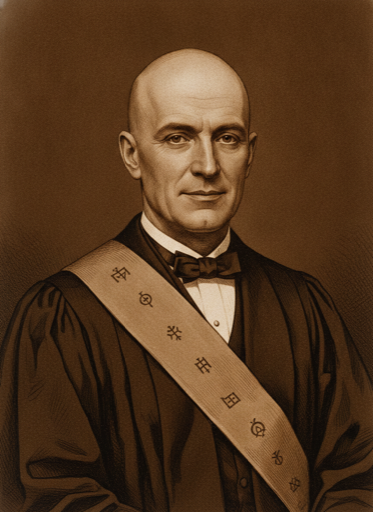
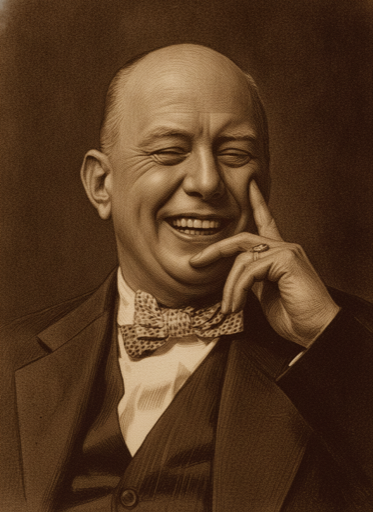
Anchor base portraits to real archival photos, fix Crowley's likeness (#541)
Base portraits were generated from text-only prompts with no photographic
anchor, so likeness came from the model's training association rather than
a verified source. Confirmed for Crowley: his generated base read too
young/slim, over-romanticizing him vs. his real heavier, jowlier "Great
Beast" prime (1920s-30s Abbey of Thelema era).

Adds a `likeness-refs/` convention (a plain, non-staged archival photo per
member) and `buildLikenessAnchoredBasePrompt` to anchor base-portrait
generation via `referenceImages`, the same mechanism reaction portraits
already use — wired into `POST /api/members` with zero behavior change for
members without a sourced reference. Regenerated and promoted Crowley's
base and reaction set against a circa-1925 Wikimedia Commons photo.

Roster-wide audit for the same gap deliberately deferred to #546.

Closes #541

diff --git a/scripts/fix-541-crowley-likeness.js b/scripts/fix-541-crowley-likeness.js
@@ -1,0 +1,104 @@
+'use strict';
+
+// #541 — Crowley's base portrait was generated from a text prompt alone,
+// with no archival photo attached as a `referenceImages` anchor, so the
+// model filled in likeness from its own training association for "Aleister
+// Crowley" rather than a verified source. Rachel's read on the result: too
+// young and slim in the face, over-romanticizing the popular occult-glamour
+// image of him rather than the heavier, jowlier "Great Beast" prime
+// (1920s-30s Abbey of Thelema era) his actual surviving photographs show.
+//
+// This regenerates his base portrait anchored to a real reference photo —
+// public/portraits/likeness-refs/crowley.jpg (circa 1925, plain studio
+// photograph, Wikimedia Commons, public domain; see that directory's
+// metadata.json for full provenance) — via buildLikenessAnchoredBasePrompt
+// (src/portrait-generation.js), the same referenceImages mechanism the
+// reaction portraits already use, just anchoring physical accuracy instead
+// of overriding expression.
+//
+// Once the base is regenerated, his three reaction portraits are also
+// regenerated anchored to the NEW base candidate (not yet promoted) so
+// likeness accuracy and cross-image consistency both hold at once, same
+// reasoning as #531's own fix. Reuses buildReactionPrompt from
+// src/portrait-generation.js unchanged.
+//
+// Storage/naming: all four candidates land at
+// public/portraits/candidates/crowley*.png, same convention as every prior
+// batch. Per STYLE_GUIDE.md's human-validation gate, this script does NOT
+// promote — it only writes candidates for review. Run
+// scripts/promote-portrait.js on whichever candidates are approved.
+//
+// Usage: node scripts/fix-541-crowley-likeness.js
+
+require('dotenv').config();
+const fs = require('fs');
+const path = require('path');
+const { generatePortraitImage, buildLikenessAnchoredBasePrompt, buildReactionPrompt, REACTION_TYPES } = require('../src/portrait-generation');
+
+const ROOT = path.join(__dirname, '..');
+const PORTRAITS_DIR = path.join(ROOT, 'public', 'portraits');
+const CANDIDATES_DIR = path.join(PORTRAITS_DIR, 'candidates');
+const LIKENESS_REF_PATH = path.join(PORTRAITS_DIR, 'likeness-refs', 'crowley.jpg');
+
+// Subject/composition clause, adapted from the one fix-531-reaction-drift.js
+// used for Crowley's reactions -- dropped the old "aim for a recognizable
+// likeness consistent with surviving photographs" line, since a real
+// reference photo now does that job directly, and added the concrete
+// physical detail Rachel's critique named so the model doesn't average it
+// away even with the reference attached.
+const SUBJECT =
+  "Warm, etching-adjacent portrait of Aleister Crowley, English ceremonial magician, in his heavier, more physically imposing prime (1920s-30s, the Abbey of Thelema era) — head-and-shoulders, shaved head, formal dress or ceremonial magician's robe. A fuller, jowlier face and heavier build than a young man's, matching the reference photo's actual physical proportions.";
+
+const COMPOSITION_SUFFIX =
+  'Head-and-shoulders, period-appropriate dress, plain dark unornamented background — no scene elements, no furniture, no bookshelves, no architectural detail. Contemplative, neutral expression. Visible linework and texture (engraving/ink-wash register), not photorealistic or cartoon/flat-vector. Limited warm sepia/candlelit palette. Portrait orientation (taller than wide).';
+
+function buildBasePrompt() {
+  return buildLikenessAnchoredBasePrompt(`${SUBJECT} ${COMPOSITION_SUFFIX}`);
+}
+
+async function main() {
+  const apiKey = process.env.GEMINI_API_KEY;
+  if (!apiKey) {
+    console.error('GEMINI_API_KEY not set — cannot generate real portrait candidates.');
+    process.exit(1);
+  }
+  if (!fs.existsSync(LIKENESS_REF_PATH)) {
+    console.error(`No likeness reference found at ${path.relative(ROOT, LIKENESS_REF_PATH)}`);
+    process.exit(1);
+  }
+
+  fs.mkdirSync(CANDIDATES_DIR, { recursive: true });
+
+  const referenceImages = [{ mimeType: 'image/jpeg', data: fs.readFileSync(LIKENESS_REF_PATH) }];
+
+  console.log('Generating likeness-anchored base portrait...');
+  const baseBuffer = await generatePortraitImage({ apiKey, prompt: buildBasePrompt(), referenceImages });
+  fs.writeFileSync(path.join(CANDIDATES_DIR, 'crowley.png'), baseBuffer);
+  console.log(`  done (${baseBuffer.length} bytes) -> public/portraits/candidates/crowley.png`);
+
+  const baseReferenceImages = [{ mimeType: 'image/png', data: baseBuffer }];
+  for (const reaction of REACTION_TYPES) {
+    const id = `crowley-${reaction}`;
+    process.stdout.write(`Generating ${id}... `);
+    const buffer = await generatePortraitImage({
+      apiKey,
+      prompt: buildReactionPrompt(reaction, 'crowley'),
+      referenceImages: baseReferenceImages,
+    });
+    fs.writeFileSync(path.join(CANDIDATES_DIR, `${id}.png`), buffer);
+    console.log(`done (${buffer.length} bytes) -> public/portraits/candidates/${id}.png`);
+  }
+
+  console.log(
+    '\nNext: review each candidate in public/portraits/candidates/ against the reference photo and STYLE_GUIDE.md, then promote with:\n' +
+      '  node scripts/promote-portrait.js crowley --force\n' +
+      '  node scripts/promote-portrait.js crowley-happy --force\n' +
+      '  node scripts/promote-portrait.js crowley-thinking --force\n' +
+      '  node scripts/promote-portrait.js crowley-angry --force'
+  );
+}
+
+main().catch(err => {
+  console.error('Script error:', err);
+  process.exit(1);
+});

diff --git a/src/routes/member.js b/src/routes/member.js
@@ -27,6 +27,7 @@ function registerMemberRoutes(
     pendingPortraitPromptsFile,
     geminiApiKey,
     portraitCandidatesDir,
+    likenessRefsDir = null,
     generatePortraitImage = portraitGeneration.generatePortraitImage,
   }
 ) {
@@ -201,7 +202,28 @@ ${relationships || '(not specified — infer from historical record)'}`;
       const reactionCandidatePaths = {};
       if (geminiApiKey && portraitPromptText) {
         try {
-          const imageBuffer = await generatePortraitImage({ apiKey: geminiApiKey, prompt: portraitPromptText });
+          // #541 — if a plain archival likeness photo has already been sourced
+          // for this member (public/portraits/likeness-refs/<id>.*, per that
+          // directory's metadata.json), anchor the base-portrait generation to
+          // it via referenceImages instead of relying on the drafted prompt's
+          // prose alone — the same gap that let Crowley's base portrait drift
+          // toward a young, over-romanticized likeness with no verified source
+          // to correct it. No sourced reference is the common case for a
+          // brand-new member (sourcing one isn't something this endpoint can
+          // do unattended), so this is opportunistic: falls back to the prior
+          // text-only behavior when nothing is found.
+          const likenessRefPath = findLikenessReference(likenessRefsDir, id);
+          const basePrompt = likenessRefPath
+            ? portraitGeneration.buildLikenessAnchoredBasePrompt(portraitPromptText)
+            : portraitPromptText;
+          const baseReferenceImages = likenessRefPath
+            ? [{ mimeType: mimeTypeForImagePath(likenessRefPath), data: fs.readFileSync(likenessRefPath) }]
+            : undefined;
+          const imageBuffer = await generatePortraitImage({
+            apiKey: geminiApiKey,
+            prompt: basePrompt,
+            ...(baseReferenceImages ? { referenceImages: baseReferenceImages } : {}),
+          });
           fs.mkdirSync(portraitCandidatesDir, { recursive: true });
           fs.writeFileSync(path.join(portraitCandidatesDir, `${id}.png`), imageBuffer);
           portraitCandidatePath = `public/portraits/candidates/${id}.png`;
@@ -327,6 +349,27 @@ function appendPendingPortraitPrompt(pendingPortraitPromptsFile, portraitPrompt)
     ? ''
     : `# Pending Portrait Prompts\n\nAuto-drafted, one entry per member added via the in-app "Add Member" flow ([#259](https://github.com/msdixon/secret-cabinet/issues/259)) — ready to paste into whatever image-generation tool is currently in use (Nano Banana, as of this writing), same convention as [BATCH-1-PROMPTS.md](BATCH-1-PROMPTS.md) and [WAVE-4-PROMPTS.md](WAVE-4-PROMPTS.md). Once an entry's image is generated, resized to 512px on the long edge, and placed at \`public/portraits/<id>.png\` per [STYLE_GUIDE.md](STYLE_GUIDE.md)'s Process, delete the entry here and log the placement in STYLE_GUIDE.md's Changelog, same as every prior batch.\n\n---\n\n`;
   fs.appendFileSync(pendingPortraitPromptsFile, `${header}${portraitPrompt}\n\n---\n\n`, 'utf8');
+}
+
+// #541 — looks for a sourced likeness reference photo at
+// <likenessRefsDir>/<id>.{jpg,jpeg,png}. Returns its path, or null if
+// likenessRefsDir wasn't configured or no matching file exists (the common
+// case — sourcing a reference is a manual step, not something this endpoint
+// does on its own).
+const LIKENESS_REF_EXTENSIONS = ['.jpg', '.jpeg', '.png'];
+
+function findLikenessReference(likenessRefsDir, id) {
+  if (!likenessRefsDir) return null;
+  for (const ext of LIKENESS_REF_EXTENSIONS) {
+    const candidate = path.join(likenessRefsDir, `${id}${ext}`);
+    if (fs.existsSync(candidate)) return candidate;
+  }
+  return null;
+}
+
+function mimeTypeForImagePath(imagePath) {
+  const ext = path.extname(imagePath).toLowerCase();
+  return ext === '.png' ? 'image/png' : 'image/jpeg';
 }
 
 module.exports = { registerMemberRoutes };

diff --git a/test/member-routes.test.js b/test/member-routes.test.js
@@ -249,6 +249,77 @@ test('POST /api/members', async t => {
     fs.rmSync(dir, { recursive: true, force: true });
   });
 
+  await t.test(
+    '#541: with no sourced likeness reference for the new member, the baseline call is unchanged (prompt-only)',
+    async () => {
+      const dir = fs.mkdtempSync(path.join(os.tmpdir(), 'member-routes-test-'));
+      const rosterFile = path.join(dir, 'roster.json');
+      const pendingPortraitPromptsFile = path.join(dir, 'PENDING-PROMPTS.md');
+      const portraitCandidatesDir = path.join(dir, 'candidates');
+      const likenessRefsDir = path.join(dir, 'likeness-refs'); // deliberately never created
+      const app = fakeApp();
+      const calls = [];
+      const deps = makeDeps({
+        membersDir: dir,
+        rosterFile,
+        pendingPortraitPromptsFile,
+        portraitCandidatesDir,
+        likenessRefsDir,
+        geminiApiKey: 'test-gemini-key',
+        generatePortraitImage: async ({ prompt, referenceImages }) => {
+          calls.push({ prompt, referenceImages });
+          return Buffer.from('fake-png-bytes');
+        },
+      });
+      registerMemberRoutes(app, deps);
+      const res = fakeRes();
+      await app.routes['POST /api/members'](fakeReq({ body: { name: 'No Reference Member', bio: 'A bio.' } }), res);
+
+      assert.equal(calls[0].prompt, 'GENERATED FILE');
+      assert.equal(calls[0].referenceImages, undefined);
+
+      fs.rmSync(dir, { recursive: true, force: true });
+    }
+  );
+
+  await t.test(
+    '#541: with a sourced likeness reference for the new member, anchors the baseline call to it',
+    async () => {
+      const dir = fs.mkdtempSync(path.join(os.tmpdir(), 'member-routes-test-'));
+      const rosterFile = path.join(dir, 'roster.json');
+      const pendingPortraitPromptsFile = path.join(dir, 'PENDING-PROMPTS.md');
+      const portraitCandidatesDir = path.join(dir, 'candidates');
+      const likenessRefsDir = path.join(dir, 'likeness-refs');
+      fs.mkdirSync(likenessRefsDir, { recursive: true });
+      fs.writeFileSync(path.join(likenessRefsDir, 'referenced-member.jpg'), 'fake-reference-jpeg-bytes');
+      const app = fakeApp();
+      const calls = [];
+      const deps = makeDeps({
+        membersDir: dir,
+        rosterFile,
+        pendingPortraitPromptsFile,
+        portraitCandidatesDir,
+        likenessRefsDir,
+        geminiApiKey: 'test-gemini-key',
+        generatePortraitImage: async ({ prompt, referenceImages }) => {
+          calls.push({ prompt, referenceImages });
+          return Buffer.from('fake-png-bytes');
+        },
+      });
+      registerMemberRoutes(app, deps);
+      const res = fakeRes();
+      await app.routes['POST /api/members'](fakeReq({ body: { name: 'Referenced Member', bio: 'A bio.' } }), res);
+
+      assert.match(calls[0].prompt, /GENERATED FILE$/);
+      assert.match(calls[0].prompt, /do not slim, de-age/i);
+      assert.deepEqual(calls[0].referenceImages, [
+        { mimeType: 'image/jpeg', data: Buffer.from('fake-reference-jpeg-bytes') },
+      ]);
+
+      fs.rmSync(dir, { recursive: true, force: true });
+    }
+  );
+
   await t.test('#450: also drafts a reaction candidate per reaction, anchored on the baseline image', async () => {
     const dir = fs.mkdtempSync(path.join(os.tmpdir(), 'member-routes-test-'));
     const rosterFile = path.join(dir, 'roster.json');

diff --git a/src/portrait-generation.js b/src/portrait-generation.js
@@ -107,6 +107,24 @@ const ANGRY_VARIANT_BY_MEMBER = {
   adorno: 'icy',
 };
 
+// #541 — every base portrait was generated from a text prompt only, with no
+// archival photo attached as a `referenceImages` anchor, so the model filled
+// in likeness from its own training association rather than a verified
+// source (confirmed concretely on Crowley: the generated base skewed young,
+// slim, and "over-romanticized" against the heavier, jowlier man his actual
+// 1920s-30s photographs show). This wraps a drafted base-portrait prompt with
+// an explicit anchoring instruction for the "Photographed" likeness tier,
+// once a real reference photo has been sourced to
+// public/portraits/likeness-refs/<id>.* (see that directory's metadata.json)
+// — the same referenceImages mechanism the reaction prompts above already
+// use, but anchoring physical accuracy rather than overriding expression.
+const BASE_LIKENESS_ANCHOR_META =
+  "The attached photograph is a real, documented archival likeness reference for this person. Render this exact individual — match their actual facial structure, build, proportions, and distinguishing features (age, weight, hairline, etc.) as shown in the reference — rather than a generic or idealized version of them. Do not slim, de-age, or otherwise flatter the subject relative to the reference photo. Use the reference only for likeness/physical accuracy; render in the style described below, not as a direct photographic reproduction of the reference image itself.";
+
+function buildLikenessAnchoredBasePrompt(promptText) {
+  return `${BASE_LIKENESS_ANCHOR_META} ${promptText}`;
+}
+
 const REACTION_EXPRESSION_OVERRIDE_META =
   "This is a photo-editing task. The attached reference photo shows this person with a neutral, resting expression. Match the reference image's exact facial structure, likeness, skin tone, headwear, and attire — do not alter identity, age, or ethnicity. You must NOT reuse or approximate the reference photo's facial expression under any circumstances — that neutral expression is the one thing you must change. Use the reference ONLY to match likeness/attire/background, including eye color and darkness exactly as in the reference (do not lighten, recolor, or add any glow to the eyes). His or her expression in your output must be a completely different, strongly and unmistakably expressed emotion, described below. If your output's face looks close to the reference's expression, you have failed the task.";
 
@@ -144,4 +162,6 @@ module.exports = {
   ANGRY_EXPRESSION_ICY,
   ANGRY_VARIANT_BY_MEMBER,
   buildReactionPrompt,
+  BASE_LIKENESS_ANCHOR_META,
+  buildLikenessAnchoredBasePrompt,
 };

diff --git a/test/portrait-generation.test.js b/test/portrait-generation.test.js
@@ -13,6 +13,8 @@ const {
   ANGRY_EXPRESSION_SNARL,
   ANGRY_EXPRESSION_ICY,
   ANGRY_VARIANT_BY_MEMBER,
+  BASE_LIKENESS_ANCHOR_META,
+  buildLikenessAnchoredBasePrompt,
 } = require('../src/portrait-generation.js');
 
 function fakeFetch({ ok = true, status = 200, json = {}, text = '' } = {}) {
@@ -138,5 +140,18 @@ test('buildReactionPrompt', async t => {
     const prompt = buildReactionPrompt('angry', 'adorno');
     assert.ok(prompt.includes(ANGRY_EXPRESSION_ICY));
     assert.ok(!prompt.includes(ANGRY_EXPRESSION_SNARL));
+  });
+});
+
+// #541 — likeness-anchored base portrait prompt, used when a plain archival
+// reference photo has been sourced for a member (public/portraits/likeness-refs/).
+test('buildLikenessAnchoredBasePrompt', async t => {
+  await t.test('prepends the anchor instruction ahead of the drafted prompt text', () => {
+    const result = buildLikenessAnchoredBasePrompt('a drafted base portrait prompt');
+    assert.equal(result, `${BASE_LIKENESS_ANCHOR_META} a drafted base portrait prompt`);
+  });
+
+  await t.test('anchor instruction warns against idealizing/slimming the subject', () => {
+    assert.match(BASE_LIKENESS_ANCHOR_META, /do not slim, de-age, or otherwise flatter/i);
   });
 });

diff --git a/server.js b/server.js
@@ -218,6 +218,11 @@ const PENDING_PORTRAIT_PROMPTS_FILE = path.join(PORTRAITS_DIR, 'PENDING-PROMPTS.
 const GEMINI_API_KEY = process.env.GEMINI_API_KEY || null;
 const PORTRAIT_CANDIDATES_DIR = path.join(PORTRAITS_DIR, 'candidates');
 
+// #541 — plain archival likeness photos, sourced per-member as a
+// referenceImages anchor for base-portrait generation. See
+// public/portraits/likeness-refs/metadata.json.
+const LIKENESS_REFS_DIR = path.join(PORTRAITS_DIR, 'likeness-refs');
+
 function loadMemberFile(filename) {
   return roster.loadMemberFile(MEMBERS_DIR, filename);
 }
@@ -467,6 +472,7 @@ registerMemberRoutes(app, {
   pendingPortraitPromptsFile: PENDING_PORTRAIT_PROMPTS_FILE,
   geminiApiKey: GEMINI_API_KEY,
   portraitCandidatesDir: PORTRAIT_CANDIDATES_DIR,
+  likenessRefsDir: LIKENESS_REFS_DIR,
 });
 
 registerExportRoutes(app, {

diff --git a/public/portraits/STYLE_GUIDE.md b/public/portraits/STYLE_GUIDE.md
@@ -33,6 +33,7 @@ AI-generated, proof-of-concept register for this stage of the project. Not commi
 
 ## Changelog
 
+- 2026-09-06 — [#541](https://github.com/msdixon/secret-cabinet/issues/541): every base portrait was generated from a text-only prompt with no actual photographic anchor, so likeness came from the model's own training association rather than a verified source — confirmed concretely for Crowley, whose generated base read noticeably younger, slimmer-faced, and more romanticized than his real "Great Beast" prime (1920s-30s Abbey of Thelema era), which was heavier and jowlier. Fixed by sourcing a plain, unstaged archival photo (Wikimedia Commons, "Aleister Crowley, thinker," circa 1925, public domain; provenance in the new `public/portraits/likeness-refs/metadata.json`) and wiring a `referenceImages`-anchoring mechanism into base-portrait generation itself: `buildLikenessAnchoredBasePrompt` (`src/portrait-generation.js`) prepends an explicit "match this photo's actual proportions, do not slim, de-age, or otherwise flatter" instruction ahead of the drafted prompt, and `POST /api/members` (`src/routes/member.js`) now checks `public/portraits/likeness-refs/<id>.{jpg,jpeg,png}` for a sourced reference and, if found, passes it as a leading `referenceImages` anchor exactly like reaction portraits already do — with zero behavior change for members without one. Regenerated and promoted Crowley's base portrait and all three reactions (anchored to the *new* base, so likeness accuracy and cross-image consistency both hold at once, same reasoning as [#531](https://github.com/msdixon/secret-cabinet/issues/531)'s fix) via `scripts/fix-541-crowley-likeness.js`; confirmed on review the new base closely matches the reference photo's build, bald head, and jowls, replacing the prior portrait's noticeably younger/slimmer face and ceremonial-sash costuming with the plain suit and bow tie the photo actually shows. The existing `public/archive/crowley-golden-dawn-1900.jpg` was considered and rejected as a reference — it's a staged, costumed 1900 book-cover photo of a ~25-year-old Crowley in ritual hood, predating and unrepresentative of the era in question. Deliberately deferred: auditing the rest of the roster for the same text-only-likeness gap — Crowley was the one confirmed case, not necessarily the only one; the `likeness-refs/` convention and prompt-anchoring mechanism now exist for whoever picks that up next.
 - 2026-09-02 — [#531](https://github.com/msdixon/secret-cabinet/issues/531): full-resolution audit of all 37 promoted reaction sets (Bamba excluded, routed to the generic silhouette) against each member's own baseline — not just per-image quality — surfaced two failure patterns the prior batches' review process didn't catch: three members' sets had drifted wholesale (Crowley `thinking`/`angry`, Waite's full set, Blavatsky's full set), reading as a different outfit, tone, or even a different person; and a narrower pattern where a member's `thinking` image alone dropped the baseline's border and tightened to a hand-to-chin crop the member's other three images don't share (Frieda Harris, Dion Fortune, Moina Mathers, Jung), plus one tone-only drift (Böhme `thinking`, warmer/golden vs. the set's cooler sepia). Root cause: every prior batch's prompt anchored likeness/attire/expression via the reference image but never said anything about border, crop, or camera distance, so a set could drift on exactly those axes while each image still "looked fine" reviewed in isolation. Fixed by adding an explicit consistency instruction (`scripts/fix-531-reaction-drift.js`) covering border/frame treatment, camera distance/crop, pose, and outfit/background match, layered onto the existing reference-anchored expression-override prompt; regenerated and promoted 13 images, each confirmed against its baseline via full-resolution side-by-side comparison (the thumbnail-grid method used in earlier batches wasn't reliable enough to have caught this in the first place). Added the border/frame and camera-distance/crop rules above to the baseline register so future batches state this explicitly instead of relying on the reference image alone. Two known gaps deliberately left out of this pass: Teresa of Ávila's baseline reads in a different sub-register (closed-eyes, borderless, near-black background, painterly) than her three reactions (open-eyes, bordered, warm background, graphic linework) — the reactions agree with each other but not with the baseline; lower priority and higher-risk to fix here, since a fix would mean regenerating a canonical baseline used elsewhere in the app, not just the reactions — filed as [#538](https://github.com/msdixon/secret-cabinet/issues/538). And the roster-wide bordered-vs-borderless split itself (each member passes the new per-member rule above; the split is between members, not within one) is left as-is rather than picked one way retroactively.
 - 2026-09-02 — [#483](https://github.com/msdixon/secret-cabinet/issues/483): the `angry` reaction now has two text registers in `src/portrait-generation.js` instead of one fixed description applied to everyone — the existing bared-teeth/snarl text (`ANGRY_EXPRESSION_SNARL`, unchanged, still the default) plus a new controlled, closed-mouth, cold-glare alternative (`ANGRY_EXPRESSION_ICY`) for reserved/cerebral figures the snarl doesn't suit. `buildReactionPrompt(reaction, memberId)` picks between them via a curated `ANGRY_VARIANT_BY_MEMBER` lookup table, seeded with just the one member Rachel named explicitly (Adorno → icy) — not an audit of the wider roster; extending the table for anyone else is a human-review judgment call for whoever generates that member's next `angry` candidate (a future batch/fixup script, same tiering pattern as [#450](https://github.com/msdixon/secret-cabinet/issues/450) batch 3's `THINKING_FIXUPS`), not something inferred automatically here. `src/routes/member.js`'s automated new-member path now passes the new member's id through so the table applies there too, though in practice a brand-new member won't be in it. Per the issue's own scoping: this changes the prompt logic for *future* angry-candidate generation only — no already-reviewed/promoted member's reaction set was regenerated.
 - 2026-08-31 — [#474](https://github.com/msdixon/secret-cabinet/issues/474): one generic, non-likeness image generated against this guide's baseline register — `public/portraits/generic-silhouette.png`, a hooded figure with no identifiable facial features, plain dark background, same warm sepia/etching tone as the rest of the roster (`scripts/generate-generic-silhouette.js`). Not a member portrait: no roster entry, not tied to any `<id>`. Used by `applyReactionTexture`/`getPortraitTexture` (`public/js/scene/scene.js`) in three fallback cases: a member with no baseline portrait at all (previously hid the seat entirely — now shows this instead, keeping the seat visibly occupied), a member's reaction pair that 404s (unchanged: still falls back to the member's own baseline portrait, since a real likeness reads better than a generic one when we have it), and Amadou Bamba's reaction set specifically, which is now routed straight to this image without ever requesting `bamba-<reaction>.png` — his reaction set was deliberately held back at generation time (see the 2026-08-29 entry below) rather than personified, and his baseline `bamba.png` is unaffected. Live-verified in the running room: an unseated/unknown member id now shows the silhouette instead of vanishing, and setting Bamba's reaction shows the silhouette while his baseline (`reaction: 'none'`) still shows his real portrait, with no network request for `bamba-happy.png` ever made. **Revised same day, before merge:** the first-pass image described the hood's interior as "soft shadow" — gemini-2.5-flash-image rendered that as a dimensionally-shaded, faintly-featured face in darkness rather than an absence of one, which read as unsettling/uncanny rather than deliberately unspecified (Rachel: "sppoky... can we just make the head a blackened out shadow rather than something indicating a face is in it?"). Fixed by rewriting the prompt to describe a completely flat, solid black void with explicitly no shading/gradient/implied facial structure and no linework inside it, distinct from the textured hood/robe around it — regenerated once, confirmed on review to no longer read as a face-in-shadow, and promoted over the original.

diff --git a/docs/status/fragments/541-crowley-likeness-anchor.md b/docs/status/fragments/541-crowley-likeness-anchor.md
@@ -1,0 +1,1 @@
+[#541](https://github.com/msdixon/secret-cabinet/issues/541): base portraits were generated from text-only prompts with no photographic anchor, letting likeness drift from the model's own training association — confirmed for Crowley, whose base read too young/slim vs. his real heavier, jowlier "Great Beast" prime. Sourced a plain archival photo and added a `referenceImages`-anchoring mechanism to base-portrait generation (`buildLikenessAnchoredBasePrompt`, `public/portraits/likeness-refs/`), regenerated and promoted Crowley's base and reaction set against it, and filed [#546](https://github.com/msdixon/secret-cabinet/issues/546) to audit the rest of the roster for the same gap.
